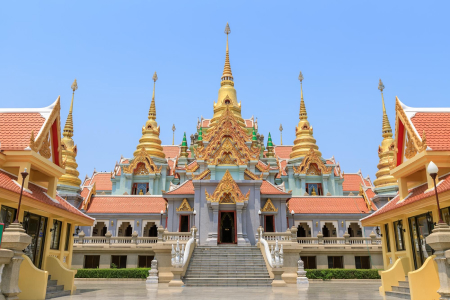
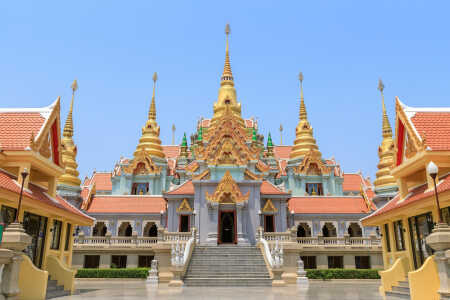
all image convert

diff --git a/index.html b/index.html
@@ -980,7 +980,7 @@
                         <div class="carousel-item active">
                             <div class="blog-flex-item">
                                 <p class="blog-date">May 21, 2024</p>
-                                <img loading="lazy" src="assets/images/blog-img/blog-img-1.png" alt="">
+                                <img loading="lazy" src="assets/images/blog-img/blog-img-1.jpg" alt="">
                                 <div class="blog-post">
                                     <div class="my-2 blog-tags">
                                         <span class="blog-tag">MASTERMIND GROUPS</span>
@@ -1004,7 +1004,7 @@
                         <div class="carousel-item">
                             <div class="blog-flex-item">
                                 <p class="blog-date">May 21, 2024</p>
-                                <img loading="lazy" src="assets/images/blog-img/blog-img-2.png" alt="">
+                                <img loading="lazy" src="assets/images/blog-img/blog-img-2.jpg" alt="">
 
                                 <div class="blog-post">
                                     <div class="my-2 blog-tags">
@@ -1029,7 +1029,7 @@
                         <div class="carousel-item">
                             <div class="blog-flex-item">
                                 <p class="blog-date">May 21, 2024</p>
-                                <img loading="lazy" src="assets/images/blog-img/blog-img-3.png" alt="">
+                                <img loading="lazy" src="assets/images/blog-img/blog-img-3.jpg" alt="">
                                 <div class="blog-post">
                                     <div class="my-2 blog-tags">
                                         <span class="blog-tag">BIZINDECATE</span>

diff --git a/css/mobile.css b/css/mobile.css
@@ -10,6 +10,12 @@ p {
     width: 90%;
 }
 
+
+ header {
+    min-height: 100%;
+    background-position: bottom;
+ }
+
 .navbar-links-bg {
     background-color: #070707E5;
     position: fixed;
